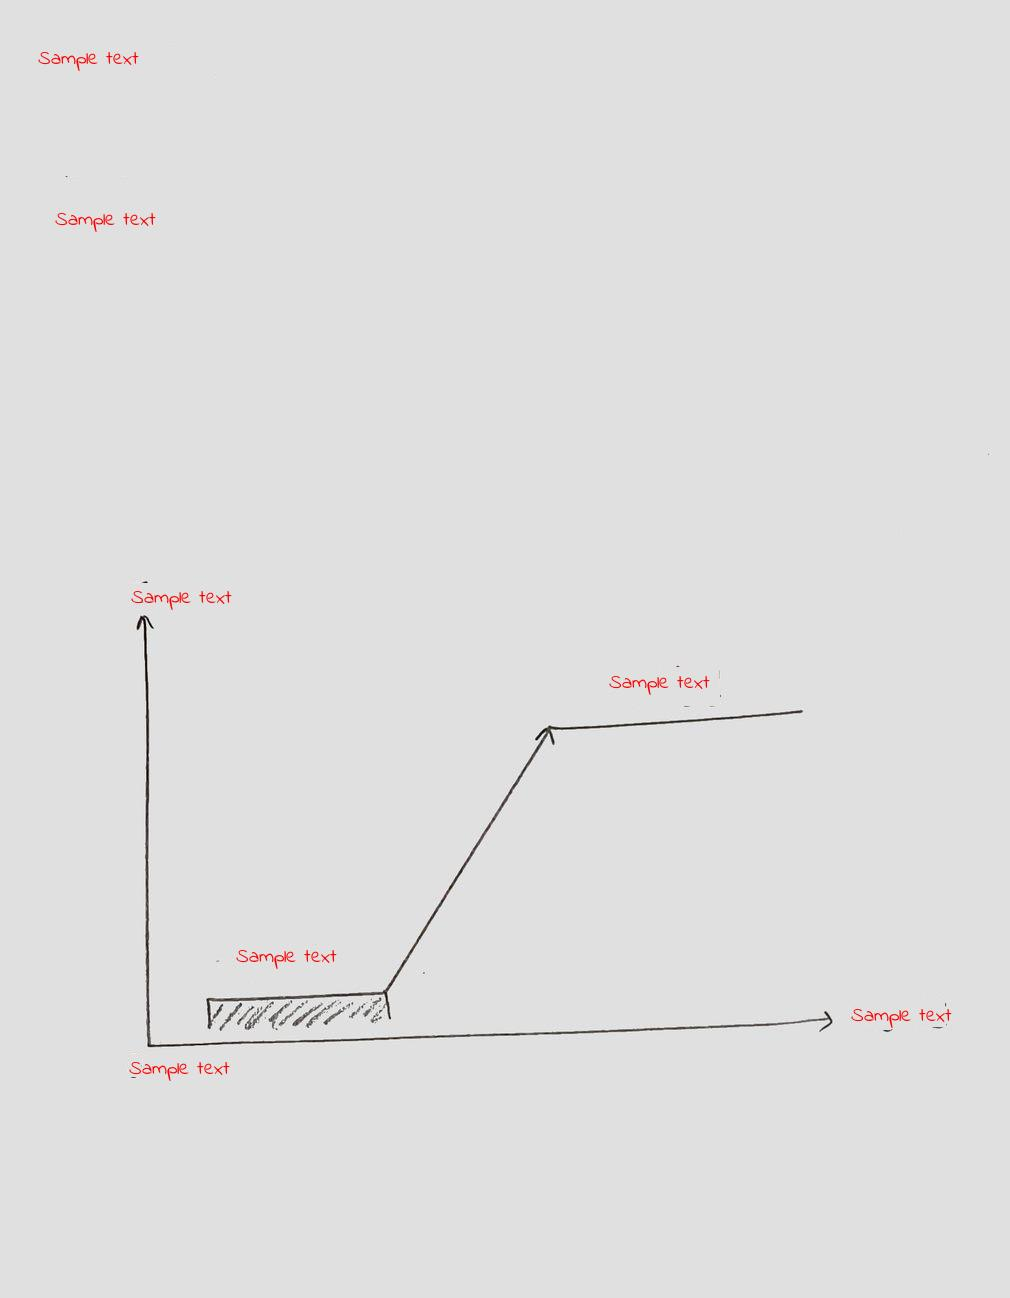
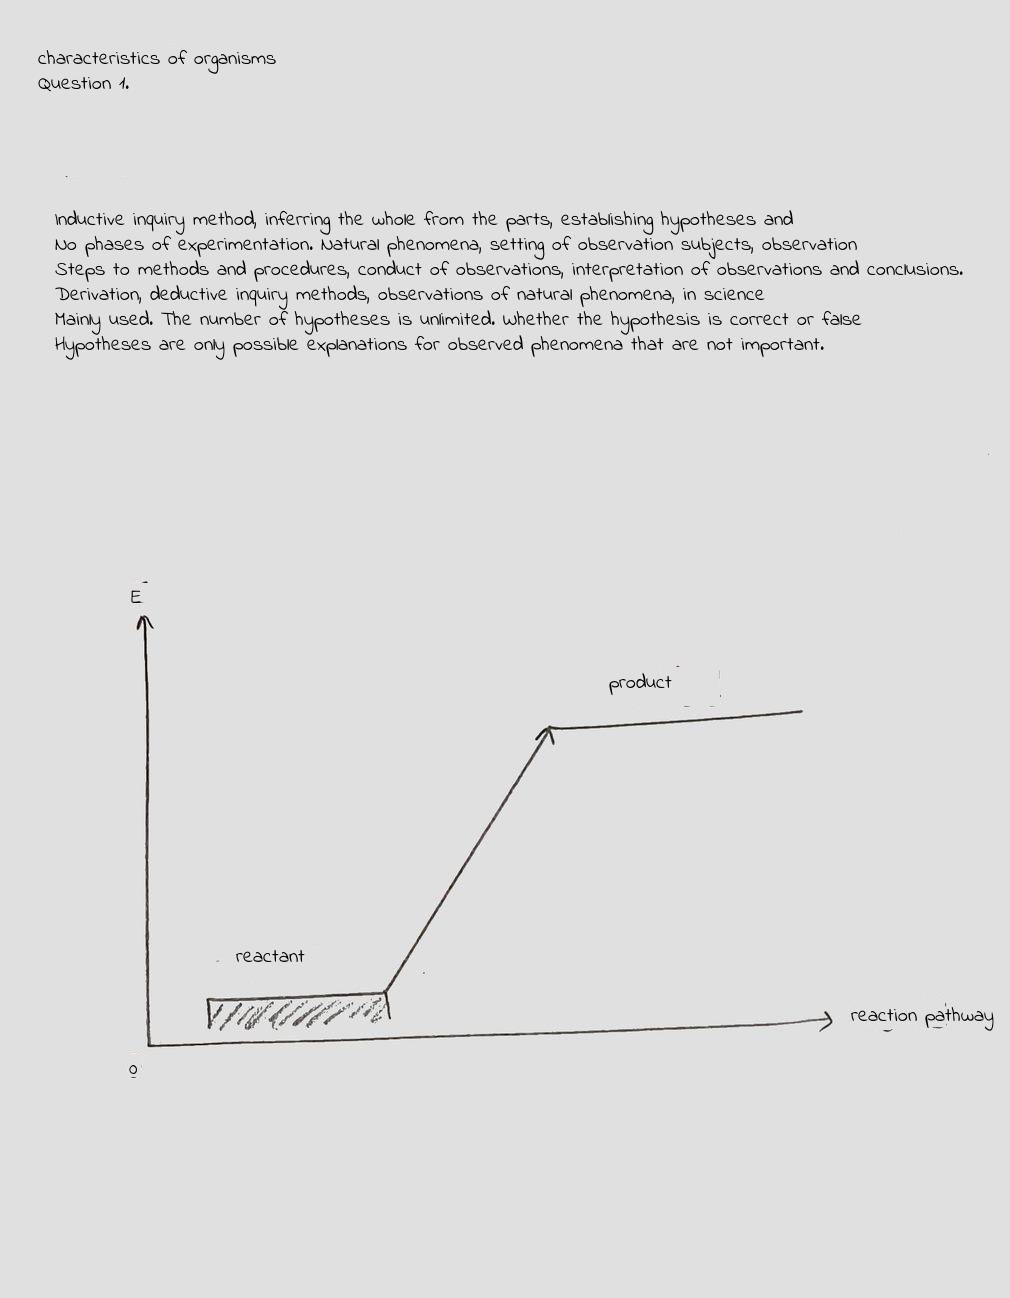
MVP complete ! - a successfully translated image

diff --git a/Backend/detect.py b/Backend/detect.py
@@ -2,6 +2,7 @@ import io
 import os
 from enum import Enum
 from PIL import Image, ImageDraw, ImageFont
+import translate_text
 
 # Imports the Google Cloud client library
 from google.cloud import vision
@@ -61,7 +62,7 @@ def draw_cover_box(image, bounds, color, string):
     )
     myFont = ImageFont.truetype('IndieFlower-Regular.ttf', 20)
     draw.text((bounds.vertices[0].x, bounds.vertices[0].y),
-              string, font=myFont, fill=(255, 0, 0))
+              translate_text.translate_text(string), font=myFont, fill=(0, 0, 0))
     return image
 
 
